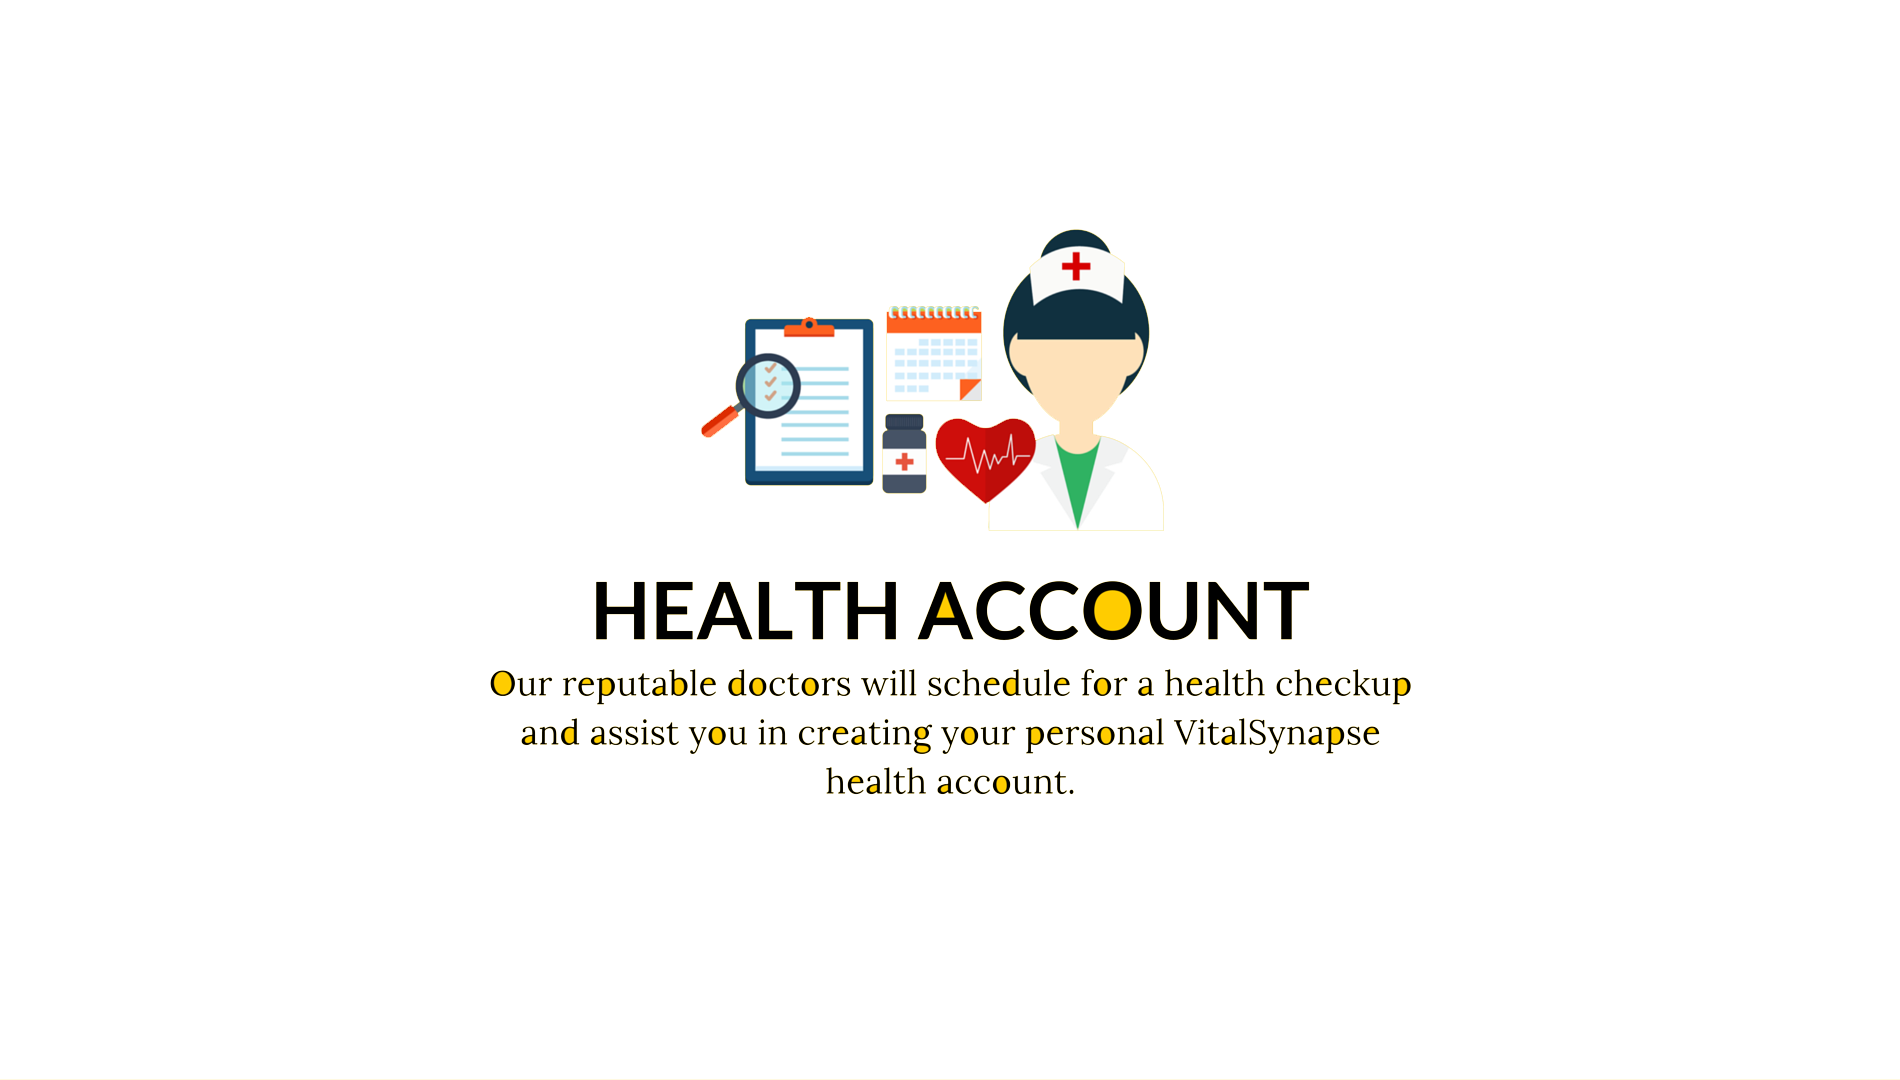
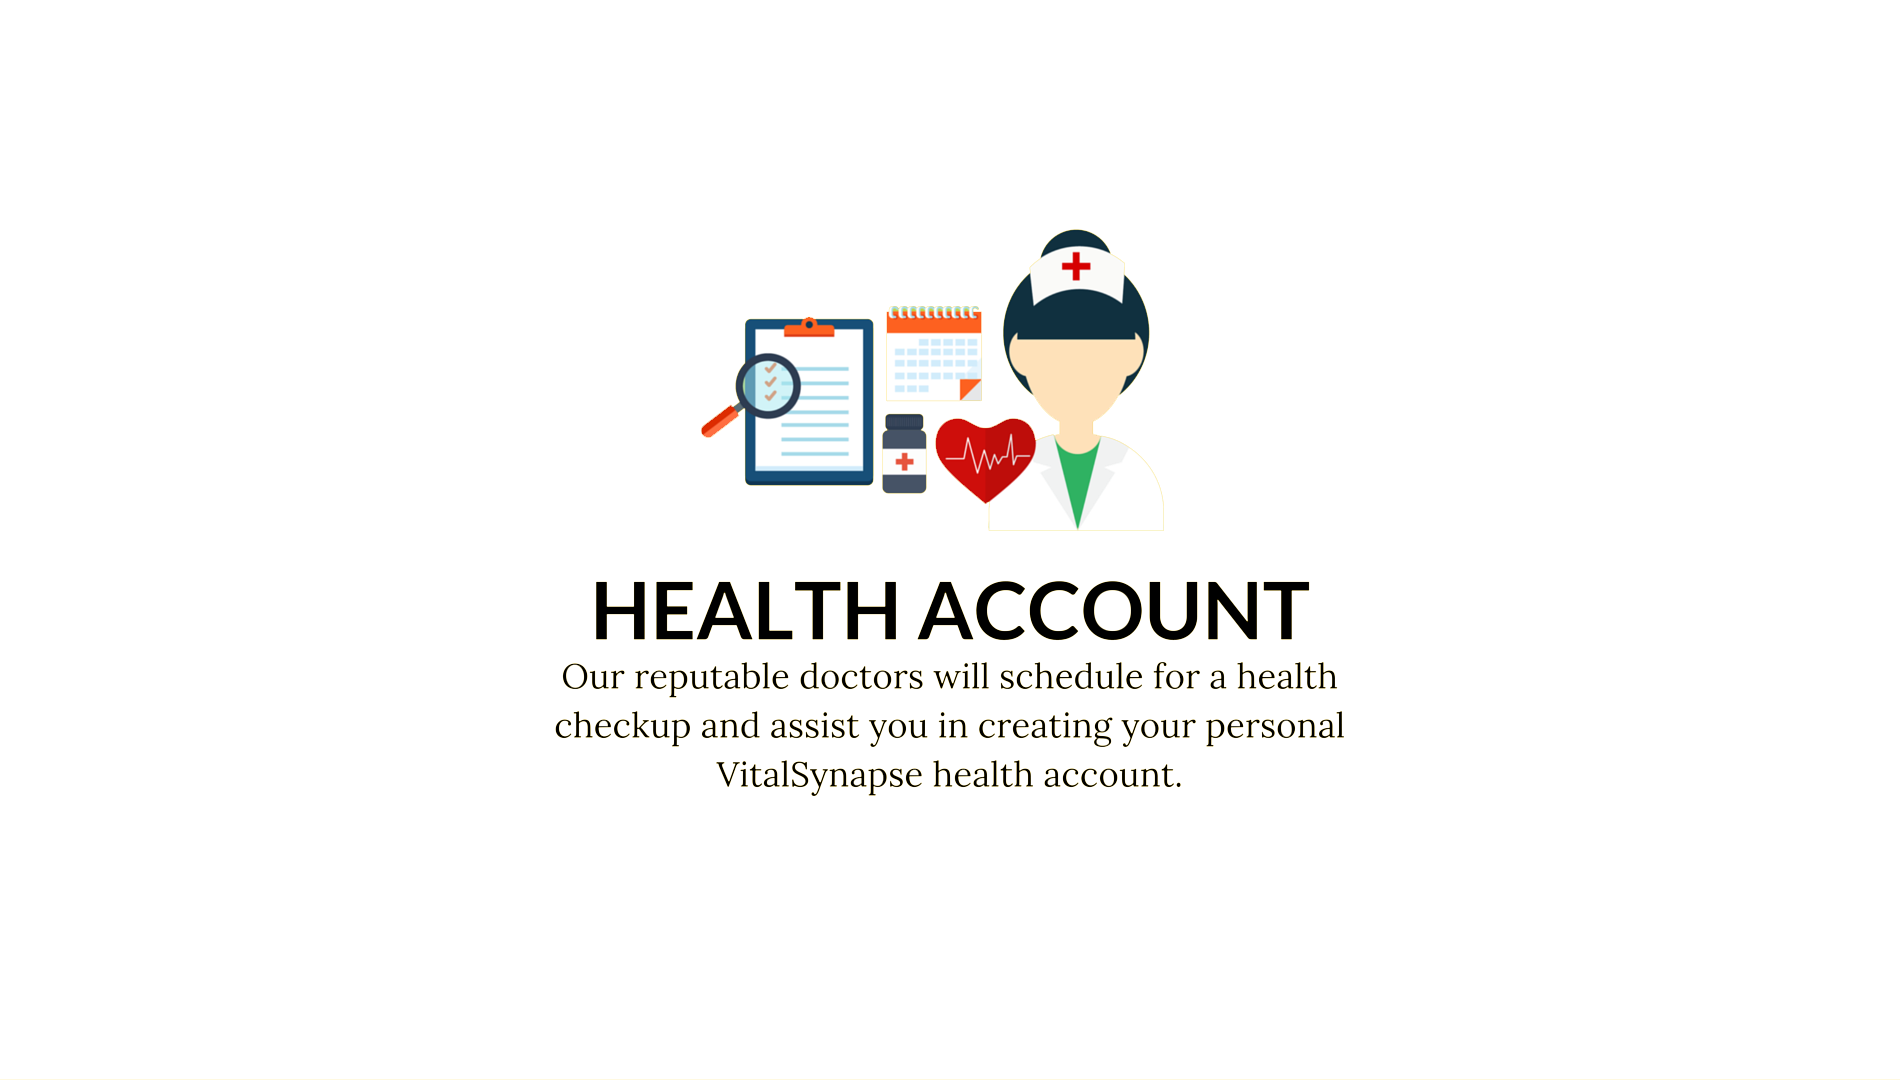
slider changes

Changed region(s): [[0.2484, 0.6111, 0.7453, 0.7333], [0.5589, 0.55, 0.6211, 0.5806]]

diff --git a/index.html b/index.html
@@ -124,7 +124,7 @@
                 </div>
             </div>
             <div class="item">
-                <div class="fill" style="background-image:url('img/slide2.png');"></div>
+                <div class="fill" style="background-image:url('img/sd2.png');"></div>
                 <div class="carousel-caption">
                     <!-- <h2>Caption 2</h2> -->
                 </div>
